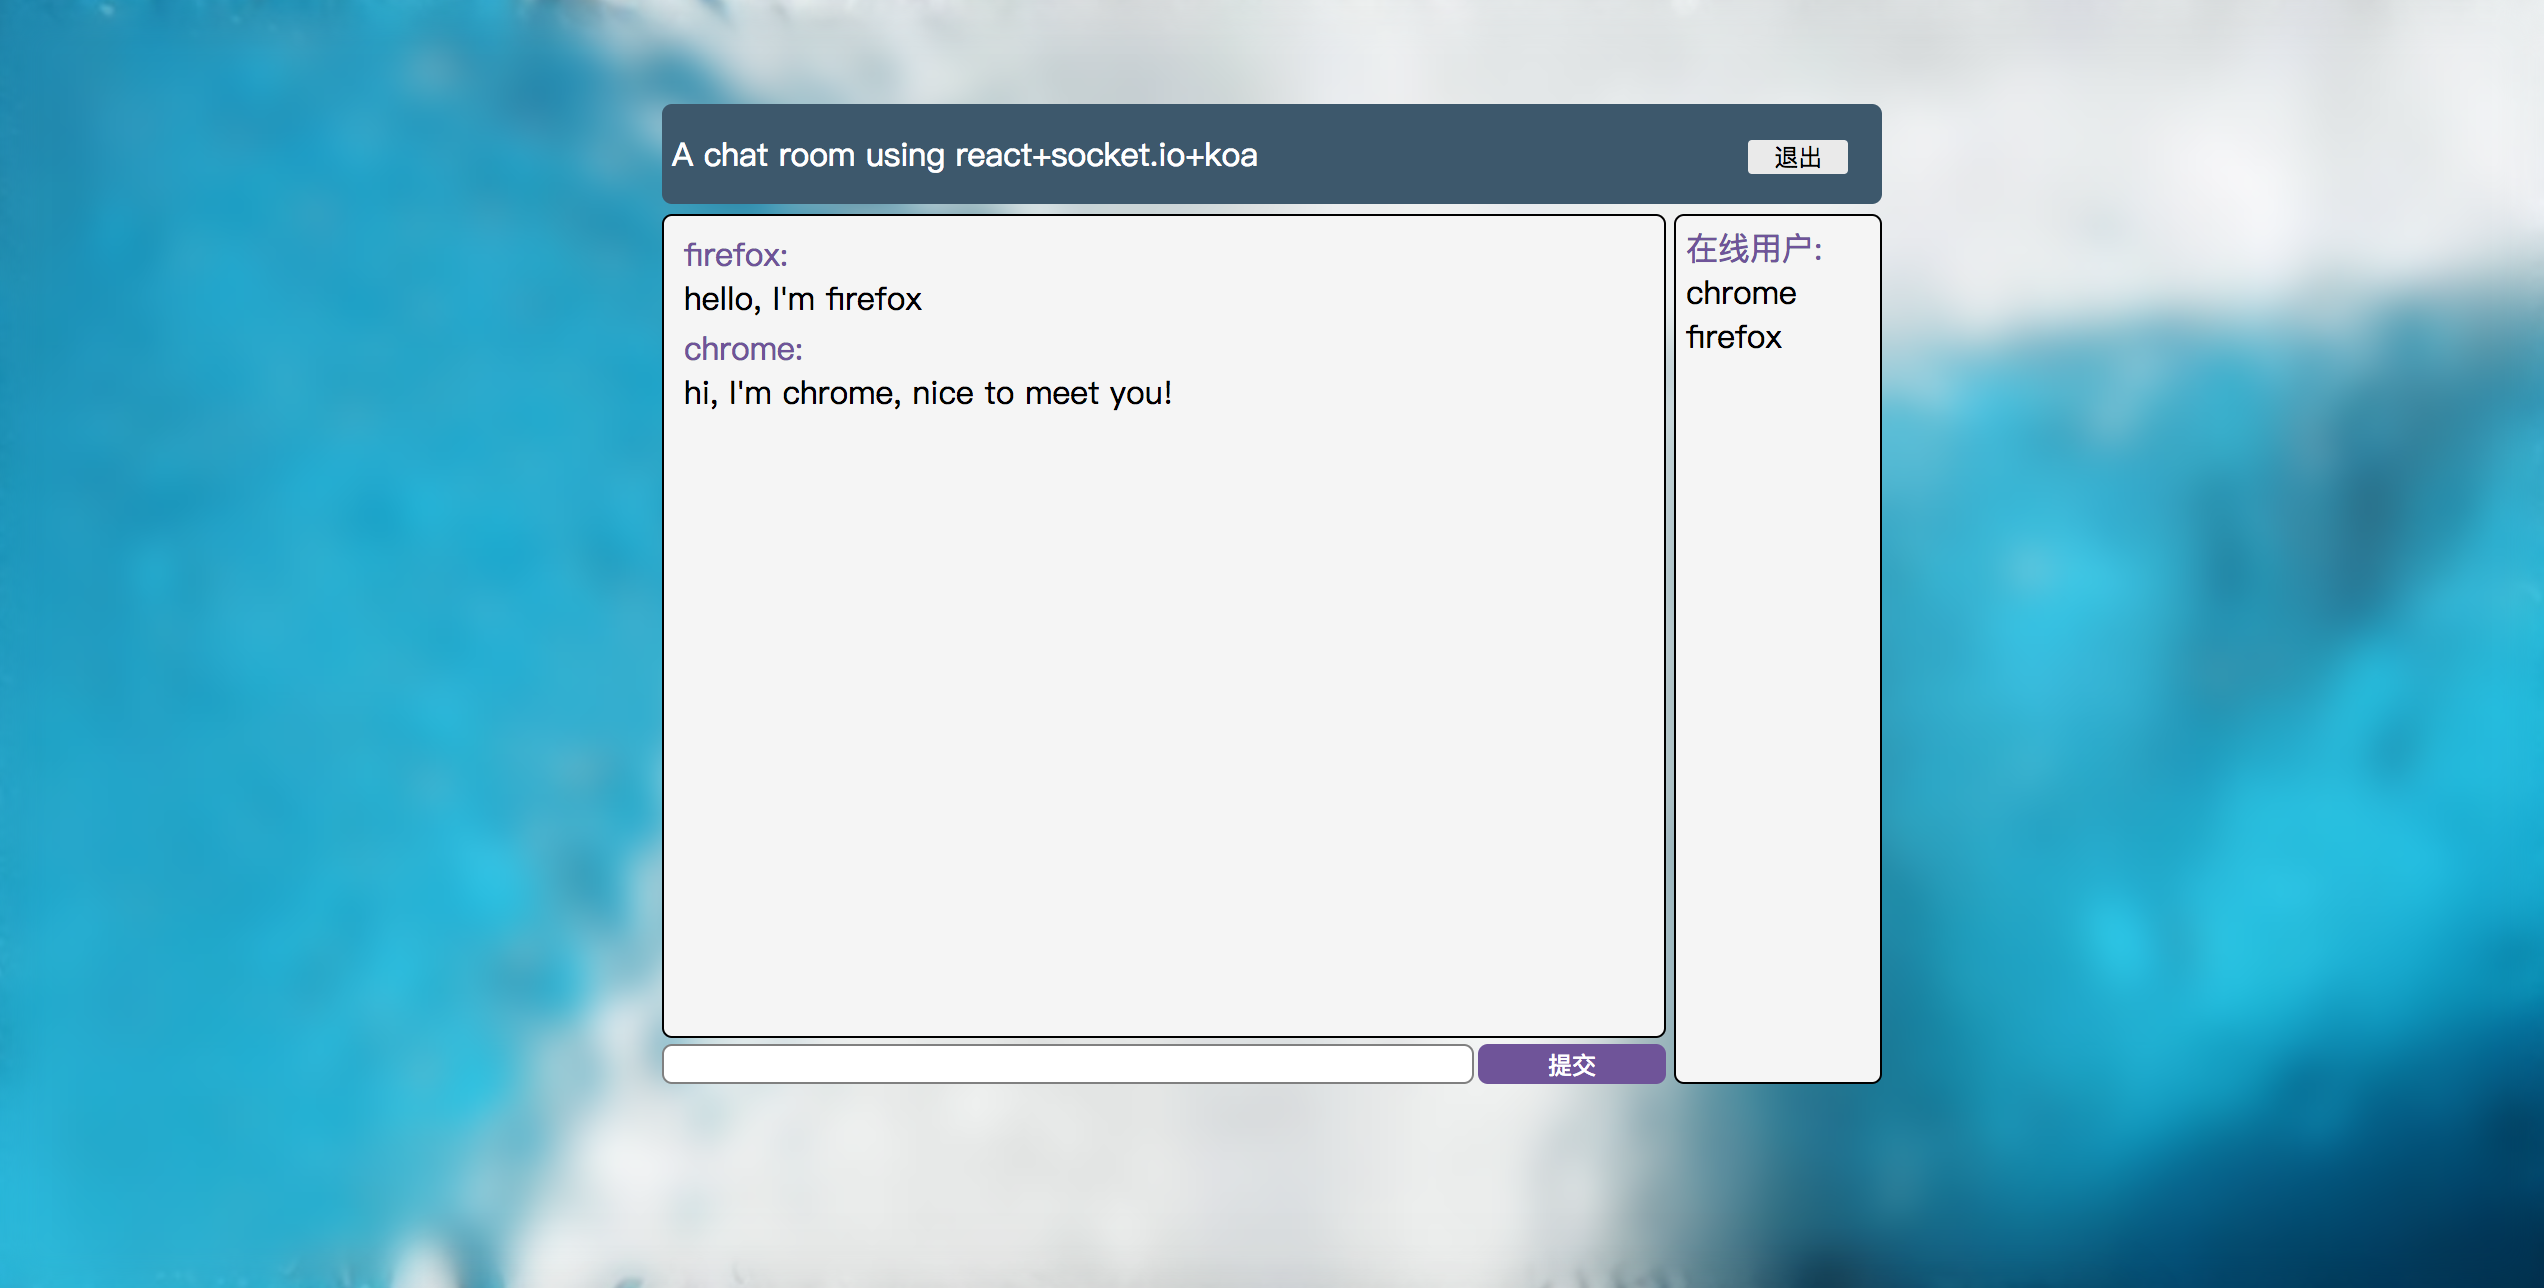
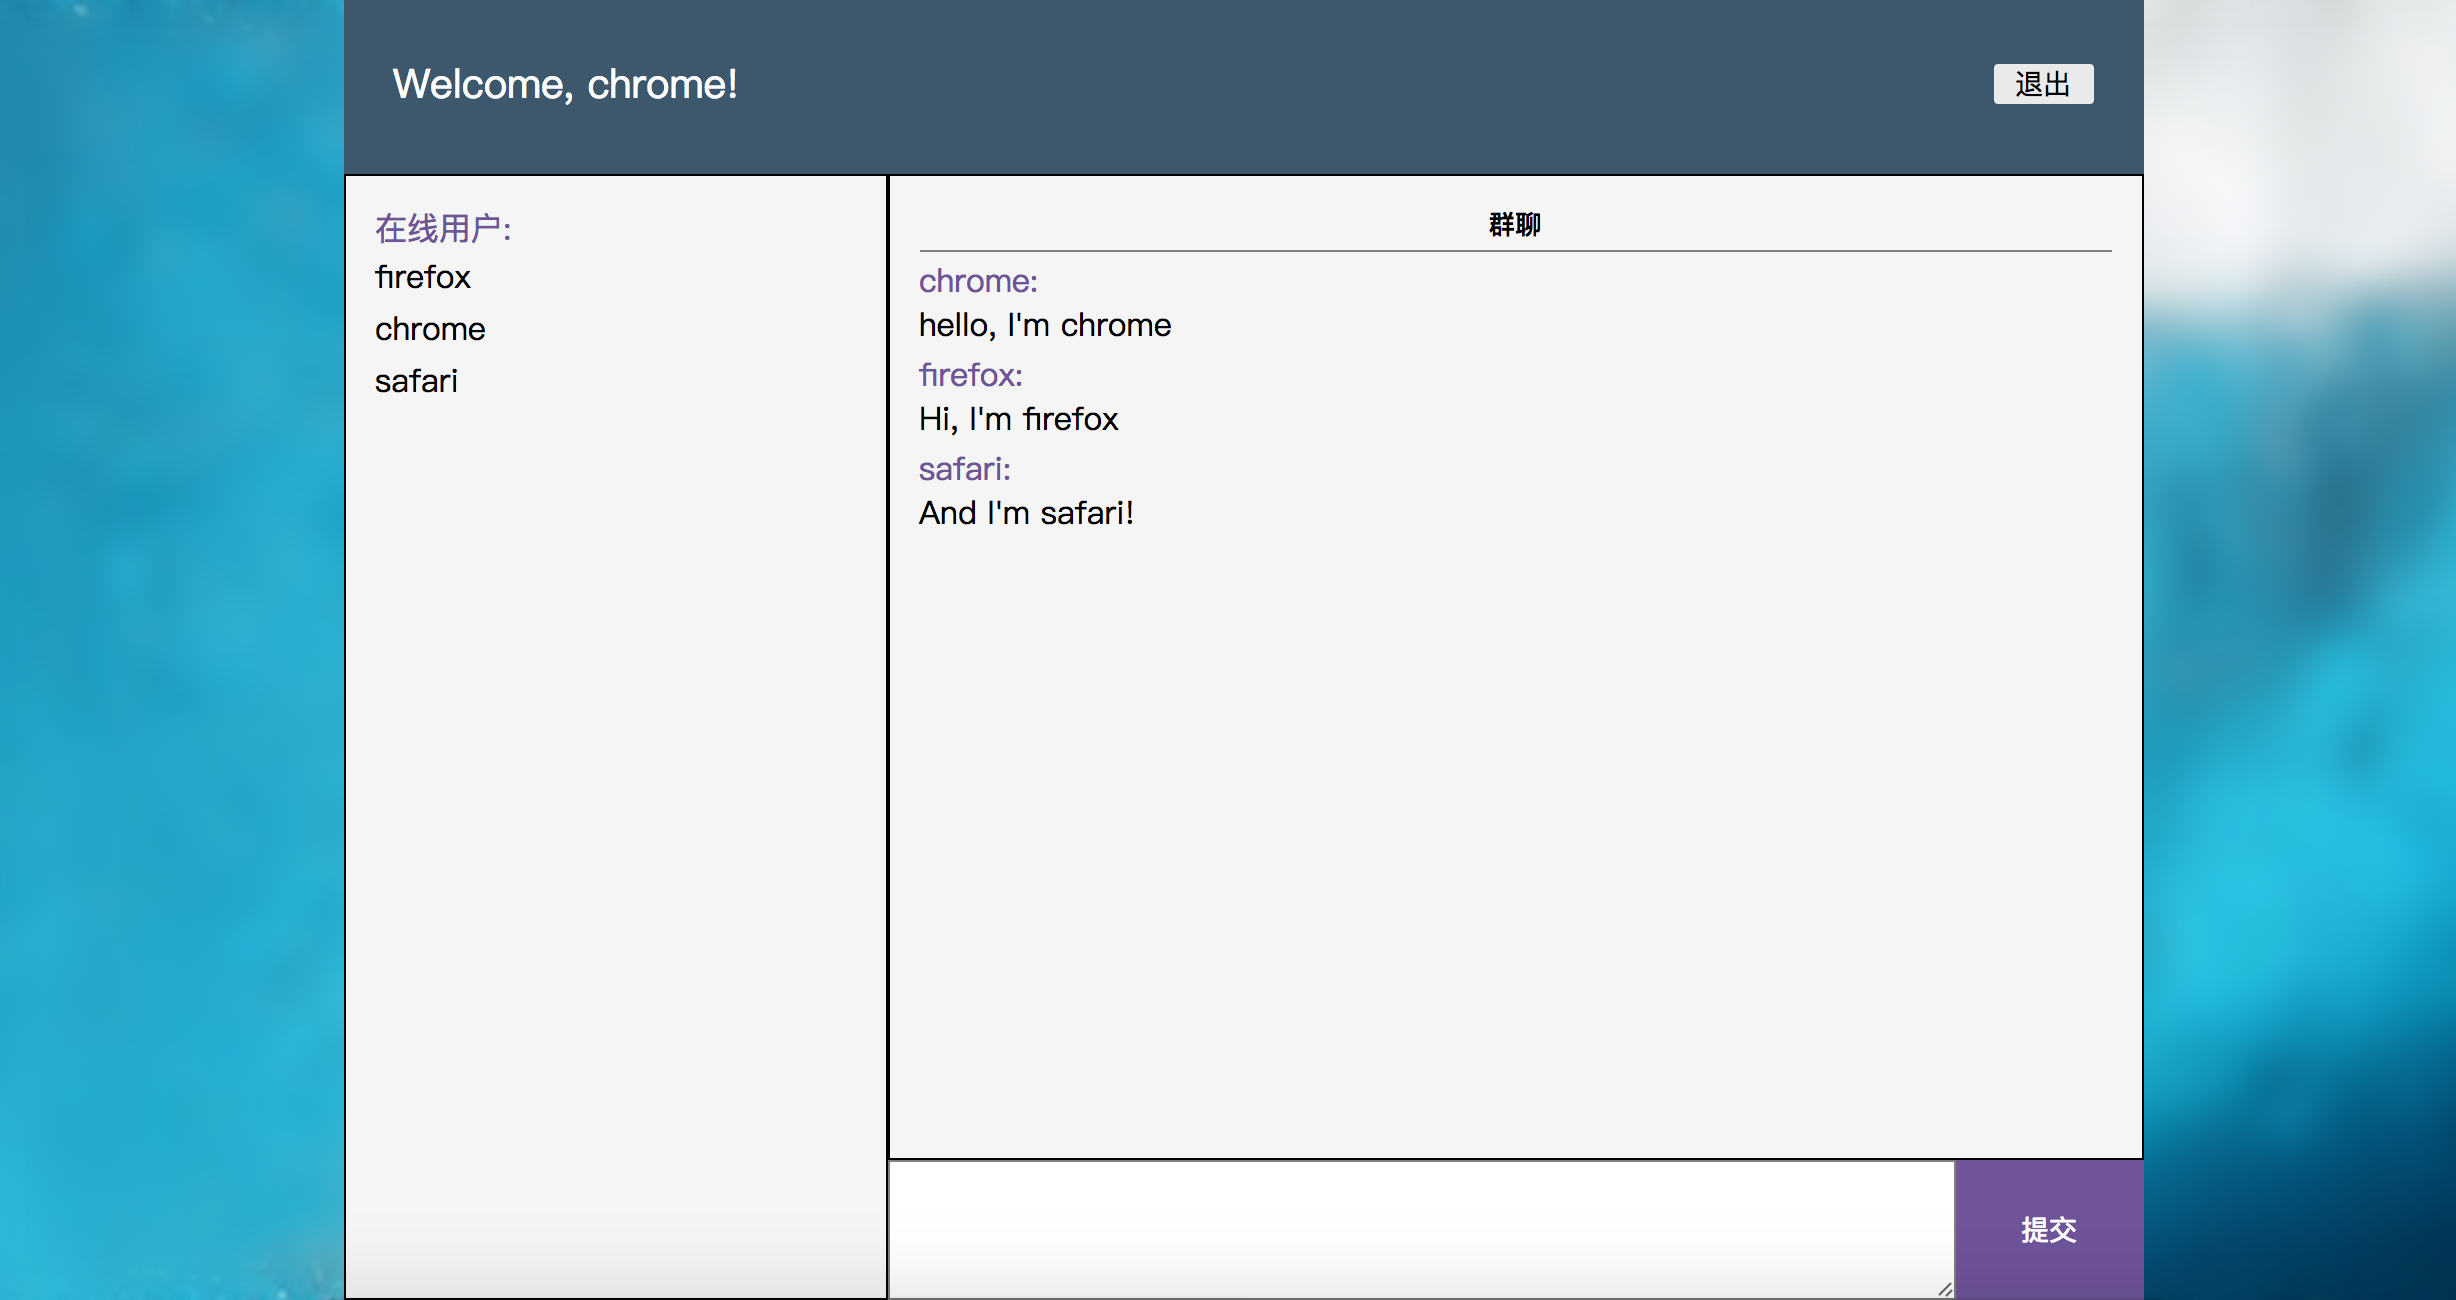
change to flexbox layout

diff --git a/src/components/typein/index.js b/src/components/typein/index.js
@@ -10,6 +10,7 @@ class TypeIn extends React.Component {
     };
     this.messageSend = this.messageSend.bind(this);
     this.messageType = this.messageType.bind(this);
+    this.handlePress = this.handlePress.bind(this);
   }
   messageType(e) {
     this.setState({
@@ -21,14 +22,39 @@ class TypeIn extends React.Component {
       text: ''
     });
     var value = this.refs.myInput.value;
-    var nickName = this.props.nickName;
-    this.props.handleSubmit(value, nickName);
+    //只有不为空字符串的时候才执行
+    if (value != 0) {
+      var regLeft = /</g;
+      var regRight = />/g;
+      value = value.replace(regLeft, '&lt;');
+      value = value.replace(regRight, '&gt;');
+      value = value.replace(/\n/g, '<br/>');
+      var nickName = this.props.nickName;
+      this.props.handleSubmit(value, nickName);
+    }
+  }
+  handlePress(e) {
+    if (e.keyCode == 13) {
+      e.preventDefault();
+      this.refs.myButton.click();
+    }
+  }
+  handlePress2(e) {
+    if (e.keyCode == 13) {
+      e.preventDefault();
+    }
+  }
+  handlePress3(e) {
+    if (e.keyCode == 13) {
+      e.preventDefault();
+    }
   }
   render() {
     return (
       <div className='type-in'>
-        <input ref="myInput" onChange={this.messageType} value={this.state.text}/>
-        <button onClick={this.messageSend}>
+        <textarea ref="myInput" onKeyUp={this.handlePress2} onChange={this.messageType} onKeyDown={this.handlePress} value={this.state.text} onKeyPress={this.handlePress3}>
+        </textarea>
+        <button onClick={this.messageSend} ref="myButton">
           提交
         </button>
       </div>

diff --git a/src/components/msgshow/index.js b/src/components/msgshow/index.js
@@ -6,20 +6,29 @@ class MsgShow extends React.Component {
   constructor(props) {
     super(props);
   }
+  componentDidUpdate() {
+    var t = this.refs.myDiv;
+    var scrollTop = t.scrollHeight - t.offsetHeight;
+    t.scrollTop = scrollTop;
+  }
   render() {
     var {msgList} = this.props;
     // console.log('from msgshow: ' + msgList[0].nickname);
+    // var scrollTop = this.refs.myDiv.scrollHeight - this.refs.myDiv.scrollHeight;
+    // this.refs.myDiv.scrollTop = scrollTop;
     return (
-      <div className='msg-show'>
+      <div ref='myDiv' className='msg-show'>
+        <h5>群聊</h5>
         <ul>
           {msgList.map((item, index) => {
         if (item.msg != '') {
           return (
             <li key={index}>
                   <span>{item.nickName}:</span>
-                  <br/>
-                  {item.msg}
-                </li>
+                  <div dangerouslySetInnerHTML={{
+              __html: item.msg
+            }}/>
+            </li>
           )
         }
       })}

diff --git a/src/components/chatall/index.js b/src/components/chatall/index.js
@@ -4,6 +4,8 @@ import MsgShow from '../msgshow/index.js'
 import NameList from '../namelist/index.js'
 import Nav from '../nav/index.js'
 
+require('./index.less');
+
 class ChatAll extends React.Component {
   constructor(props) {
     super(props);
@@ -18,10 +20,14 @@ class ChatAll extends React.Component {
     } else {
       return (
         <div className='chat-wrap'>
-          <Nav handleClick={handleClick}/>
-          <NameList nameList={nameList}/>
-          <MsgShow msgList={msgList}/>
-          <TypeIn handleSubmit={handleSubmit} nickName={nickName}/>
+          <Nav handleClick={handleClick} nickName={nickName}/>
+          <div className='message-wrap'>
+            <NameList nameList={nameList}/>
+            <div className='typein-wrap'>
+              <MsgShow msgList={msgList}/>
+              <TypeIn handleSubmit={handleSubmit} nickName={nickName}/>
+            </div>
+          </div>
         </div>
       )
     }

diff --git a/src/components/login/index.less b/src/components/login/index.less
@@ -1,6 +1,7 @@
 .nick-name {
   width: 300px;
   height: 100px;
+  padding: 10px;
   position: absolute;
   left: 0;
   right: 0;
@@ -10,24 +11,28 @@
   border: 1px solid gray;
   border-radius: 5px;
   text-align: center;
+  display: flex;
+  flex-wrap: wrap;
+  justify-content: center;
+  align-content: space-around;
 }
 
 .nick-name h2 {
-  margin-top: 15px;
+  flex: 0 0 100%;
 }
 
 .nick-name input {
   outline: none;
   border: 1px solid gray;
-  height: 18px;
+  height: 20px;
+  flex: 0 0 50%;
+  padding: 0 5px;
 }
 
 .nick-name button {
   outline: none;
   border: 1px solid gray;
-  height: 20px;
+  height: 22px;
   background-color: white;
-  margin-left: 2px;
-  padding-left: 2px;
-  padding-right: 2px;
+  flex: 0 0 20%;
 }

diff --git a/src/components/chatall/index.less b/src/components/chatall/index.less
@@ -1,26 +1,17 @@
-* {
-  margin: 0;
-  padding: 0;
-}
-body{
-  height: 100%;
-  background-image: url(../resource/background.jpeg);
-  background-repeat: no-repeat;
-  background-size: cover;
-}
 .chat-wrap {
-  width: 610px;
-  padding: 5px;
-  margin: 50px auto;
+  width: 100%;
+  height: 100%;
+  display: flex;
+  flex-direction: column;
 }
 
-.bg{
-  position: absolute;
-  top: 0;
-  bottom: 0;
-  left: 0;
-  right: 0;
-  z-index: -1;
-  background: inherit;
-  filter: blur(10px);
+.message-wrap {
+  display: flex;
+  flex: 1;
+}
+
+.typein-wrap {
+  display: flex;
+  flex-direction: column;
+  flex: 1;
 }

diff --git a/src/index.less b/src/index.less
@@ -2,18 +2,15 @@
   margin: 0;
   padding: 0;
 }
+html{
+  height: 100%;
+}
 body{
   height: 100%;
   background-image: url(../resource/background.jpeg);
   background-repeat: no-repeat;
   background-size: cover;
 }
-.chat-wrap {
-  width: 610px;
-  padding: 5px;
-  margin: 50px auto;
-}
-
 .bg{
   position: absolute;
   top: 0;
@@ -23,4 +20,14 @@ body{
   z-index: -1;
   background: inherit;
   filter: blur(10px);
+}
+#test {
+  height: 100%;
+  overflow: hidden;
+  min-height: 500px;
+  width: 100%;
+  max-width: 900px;
+  min-width: 600px;
+  margin: 0 auto;
+  position: relative;
 }

diff --git a/webpack.config.js b/webpack.config.js
@@ -1,7 +1,7 @@
 var ExtractTextPlugin = require('extract-text-webpack-plugin');
 var config = {
   devtool: 'eval-source-map',
-  entry: './src/index.js',
+  entry: ['whatwg-fetch', './src/index.js'],
   output: {
     path: __dirname + '/dist',
     filename: 'bundle.js',
@@ -20,7 +20,7 @@ var config = {
         test: /\.less$/,
         loader: ExtractTextPlugin.extract({
           fallback: 'style-loader',
-          use: ['css-loader', 'less-loader']
+          use: ['css-loader', 'less-loader', 'autoprefixer-loader']
         }),
         exclude: /node_modules/
       }, {

diff --git a/src/components/nav/index.less b/src/components/nav/index.less
@@ -1,12 +1,15 @@
 .nav {
   width: 100%;
-  height: 50px;
-  line-height: 50px;
+  // height: 90px;
+  flex: 0 0 90px;
   background-color: #3d586c;
   color: white;
-  text-indent: 5px;
-  border-radius: 5px;
-  padding: 0;
+  padding: 25px;
+  box-sizing: border-box;
+  font-size: 20px;
+  display: flex;
+  align-items: center;
+  justify-content: space-between;
 }
 
 .nav button {
@@ -14,7 +17,7 @@
   border: none;
   border-radius: 2px;
   background-color: white;
-  margin-left: 175px;
   width: 50px;
   background-color: #eaeaea;
+  font-size: 14px;
 }

diff --git a/src/components/typein/index.less b/src/components/typein/index.less
@@ -1,24 +1,22 @@
 .type-in {
-  width: 502px;
+  display: flex;
+  flex: 0 0 70px;
 }
 
-.type-in input {
-  padding: 2px;
-  width: 400px;
-  height: 14px;
+.type-in textarea {
+  padding: 10px;
   outline: none;
   border: 1px solid gray;
-  border-radius: 5px;
+  flex: 1;
+  font-size: 14px;
 }
 
 .type-in button {
   outline: none;
   width: 94px;
-  height: 20px;
   border: 1px solid #6f5499;
   background-color: white;
-  margin-left: 2px;
-  border-radius: 5px;
   background-color: #6f5499;
   color: white;
+  font-size: 14px;
 }

diff --git a/src/components/msgshow/index.less b/src/components/msgshow/index.less
@@ -1,18 +1,20 @@
 .msg-show {
-  width: 490px;
-  height: 400px;
-  overflow: auto;
+  flex: 1;
   border: 1px solid black;
-  padding: 5px;
-  word-wrap: break-word;
-  margin-top: 5px;
-  border-radius: 5px;
+  padding: 15px;
   background-color: #f5f5f5;
+  overflow:auto;
+}
+
+.msg-show h5{
+  text-align: center;
+  border-bottom: 1px solid gray;
+  padding-bottom: 3px;
 }
 
 .msg-show ul{
-  width: 460px;
-  margin-left: 5px;
+  width: 100%;
+  word-break: break-all;
   list-style-type: none;
 }
 

diff --git a/src/components/namelist/index.less b/src/components/namelist/index.less
@@ -1,16 +1,17 @@
 .name-list {
-  float: right;
   list-style-type: none;
-  padding: 5px;
-  width: 92px;
-  height: 423px;
+  padding: 15px;
   overflow: auto;
   border: 1px solid black;
-  margin-top: 5px;
-  border-radius: 5px;
   background-color: #f5f5f5;
+  flex: 0 0 240px;
 }
 
 .name-list-title {
   color: #6f5499;
+}
+
+.name-list-title ~ li {
+  line-height: 26px;
+  height: 26px;
 }

diff --git a/src/components/nav/index.js b/src/components/nav/index.js
@@ -8,10 +8,10 @@ class Nav extends React.Component {
     super(props);
   }
   render() {
-    var {handleClick} = this.props;
+    var {handleClick, nickName} = this.props;
     return (
       <div className='nav'>
-        A chat room using react+ redux+ socket.io+ koa
+        <span>Welcome, {nickName}!</span>
         <button onClick={handleClick}>退出</button>
       </div>
     )
